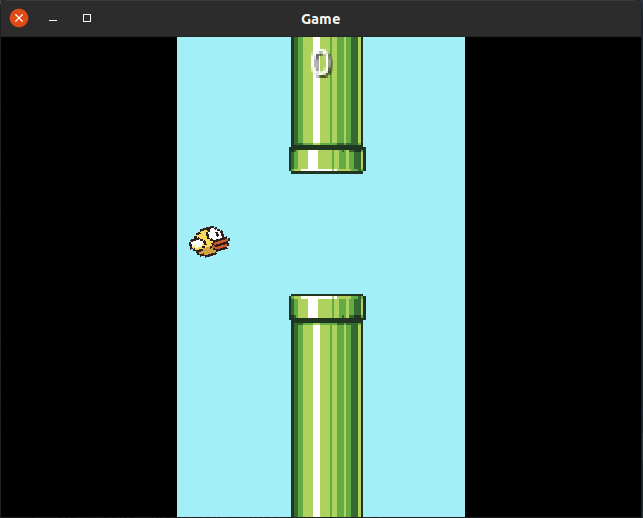
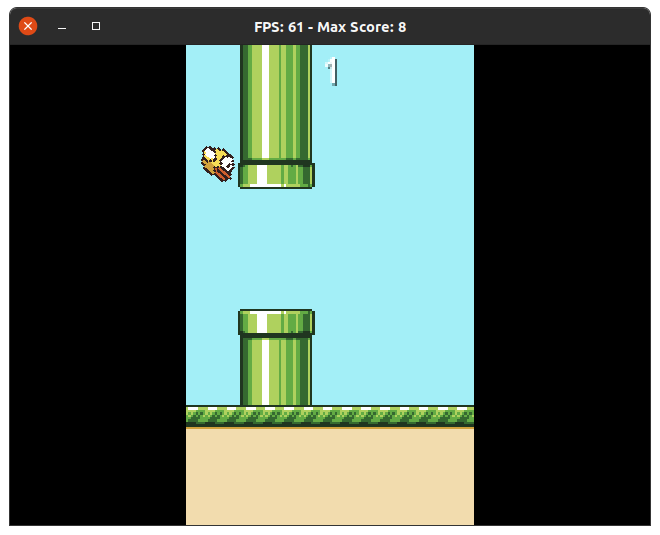
Added ground and general improvements

Changed region(s): [[0.0, 0.0, 1.0, 1.0]]

diff --git a/core/src/com/mygdx/game/systems/BirdSystem.kt b/core/src/com/mygdx/game/systems/BirdSystem.kt
@@ -27,9 +27,7 @@ class BirdSystem(gameScreen: GameScreen) : IteratingSystem(allOf(BirdComponent::
             val birdDrawable = drawableMap[birdEntity]!!
 
             // Process velocity and position
-            val velocity = bird.velocity
-            velocity.y -= Constants.GRAVITY * deltaTime
-            birdTransform.pos.y += velocity.y
+            processPhysics(bird, birdTransform, deltaTime)
 
             // Process rotation
             processRotation(bird, birdTransform)
@@ -45,7 +43,19 @@ class BirdSystem(gameScreen: GameScreen) : IteratingSystem(allOf(BirdComponent::
         }
     }
 
+    private fun processPhysics(bird: BirdComponent, birdTransform: TransformComponent, deltaTime: Float) {
+        if (hasLanded(birdTransform)) {
+            return
+        }
+        val velocity = bird.velocity
+        velocity.y -= Constants.GRAVITY * deltaTime
+        birdTransform.pos.y += velocity.y
+    }
+
     private fun processRotation(bird: BirdComponent, birdTransform: TransformComponent) {
+        if (hasLanded(birdTransform)) {
+            return
+        }
         val velocity = bird.velocity
         val oldRot = bird.oldRot
         if (!oldRot.isNaN()) {
@@ -58,7 +68,7 @@ class BirdSystem(gameScreen: GameScreen) : IteratingSystem(allOf(BirdComponent::
     private fun checkForDeath(birdTransform: TransformComponent, birdDrawable: DrawableComponent) {
         var inGap = false
 
-        if (birdTransform.pos.y + birdTransform.size.y < 0) {
+        if (hasLanded(birdTransform)) {
             // 1. too low
             die()
         } else {
@@ -87,5 +97,9 @@ class BirdSystem(gameScreen: GameScreen) : IteratingSystem(allOf(BirdComponent::
 
     private fun die() {
         world.isDead = true
+    }
+
+    private fun hasLanded(birdTransform: TransformComponent): Boolean {
+        return birdTransform.pos.y + birdTransform.size.y / 3 <= Constants.GROUND_HEIGHT
     }
 }

diff --git a/core/src/com/mygdx/game/entities/Pipe.kt b/core/src/com/mygdx/game/entities/Pipe.kt
@@ -5,16 +5,16 @@ import com.badlogic.gdx.graphics.g2d.NinePatch
 import com.badlogic.gdx.math.MathUtils
 import com.mygdx.game.Assets
 import com.mygdx.game.Constants
-import com.mygdx.game.components.ScrollComponent
 import com.mygdx.game.components.DrawableComponent
 import com.mygdx.game.components.GapComponent
+import com.mygdx.game.components.ScrollComponent
 import com.mygdx.game.components.TransformComponent
 import ktx.ashley.entity
 import ktx.ashley.with
 
 object Pipe {
     private fun new(engine: PooledEngine, height: Float, isFlipped: Boolean) {
-        val textureRegion = Assets.pipeTexture
+        val textureRegion = Assets.Sprites.PIPE.texture
 
         engine.entity {
             with<ScrollComponent>()
@@ -25,7 +25,7 @@ object Pipe {
                 scale.set(1f, if (isFlipped) -1f else 1f)
             }
             with<DrawableComponent> {
-                set(NinePatch(textureRegion, 0, 0, Assets.Sprites.PIPE_EDGE_TOP, 0))
+                set(NinePatch(textureRegion, 0, 0, Constants.PIPE_EDGE_TOP, 0))
             }
         }
     }
@@ -33,7 +33,7 @@ object Pipe {
     fun newRandomPair(engine: PooledEngine) {
         val halvedGap = Constants.PIPE_GAP.toInt() / 2
         newPair(engine, MathUtils.random(
-                Constants.PIPE_SCREEN_MARGIN + halvedGap,
+                Constants.PIPE_SCREEN_MARGIN + Constants.GROUND_HEIGHT.toInt() + halvedGap,
                 Constants.WORLD_HEIGHT.toInt() - Constants.PIPE_SCREEN_MARGIN - halvedGap
         ).toFloat(), Constants.PIPE_GAP)
     }
@@ -52,7 +52,7 @@ object Pipe {
             with<DrawableComponent>()
             with<TransformComponent> {
                 pos.set(Constants.WORLD_WIDTH, bottomY, 0f)
-                size.set(Assets.pipeTexture.originalWidth.toFloat(), gap)
+                size.set(Assets.Sprites.PIPE.texture.originalWidth.toFloat(), gap)
             }
         }
     }

diff --git a/core/src/com/mygdx/game/entities/Ground.kt b/core/src/com/mygdx/game/entities/Ground.kt
@@ -1,0 +1,35 @@
+package com.mygdx.game.entities
+
+import com.badlogic.ashley.core.PooledEngine
+import com.badlogic.gdx.graphics.g2d.NinePatch
+import com.mygdx.game.Assets
+import com.mygdx.game.Constants
+import com.mygdx.game.components.DrawableComponent
+import com.mygdx.game.components.ScrollComponent
+import com.mygdx.game.components.TransformComponent
+import ktx.ashley.entity
+import ktx.ashley.with
+
+object Ground {
+    /**
+     * Create enough ground entities in the world
+     */
+    fun init(engine: PooledEngine) {
+        for (i in 0 until Constants.WORLD_GROUND_COUNT) {
+            engine.entity {
+                with<TransformComponent> {
+                    pos.set(i * Constants.GROUND_WIDTH, 0f, -2f)
+                    // +0.1f to make seamless
+                    size.set(Constants.GROUND_WIDTH + 0.1f, Constants.GROUND_HEIGHT)
+                }
+                with<ScrollComponent> {
+                    willCycle = true
+                    cycleWidth = Constants.GROUND_CYCLE_WIDTH
+                }
+                with<DrawableComponent> {
+                    set(NinePatch(Assets.Sprites.GROUND.texture, Constants.GROUND_WIDTH.toInt() - 1, 0, Constants.GROUND_EDGE_TOP, 0))
+                }
+            }
+        }
+    }
+}

diff --git a/core/src/com/mygdx/game/systems/ScrollSystem.kt b/core/src/com/mygdx/game/systems/ScrollSystem.kt
@@ -11,17 +11,25 @@ import ktx.ashley.mapperFor
 
 class ScrollSystem(gameScreen: GameScreen) : IteratingSystem(allOf(ScrollComponent::class, TransformComponent::class).get()) {
     private val transformMap = mapperFor<TransformComponent>()
+    private val scrollMap = mapperFor<ScrollComponent>()
     private val world by lazy { gameScreen.world }
 
     override fun processEntity(entity: Entity?, deltaTime: Float) {
         // Move pipes leftwards
         if (entity != null && !world.isDead) {
             val transform = transformMap[entity]!!
+            val scroll = scrollMap[entity]!!
             transform.pos.x -= deltaTime * Constants.PIPE_MOVE_SPEED
 
             if (transform.box.x + transform.box.width < 0f) {
-                // off screen, remove entity
-                engine.removeEntity(entity)
+                // off screen
+                if (scroll.willCycle) {
+                    // recycle entity
+                    transform.pos.x += scroll.cycleWidth
+                } else {
+                    // remove entity
+                    engine.removeEntity(entity)
+                }
             }
         }
     }

diff --git a/core/src/com/mygdx/game/entities/Bird.kt b/core/src/com/mygdx/game/entities/Bird.kt
@@ -6,18 +6,17 @@ import com.mygdx.game.Constants
 import com.mygdx.game.components.BirdComponent
 import com.mygdx.game.components.DrawableComponent
 import com.mygdx.game.components.TransformComponent
-import com.mygdx.game.utils.Drawable
 import ktx.ashley.entity
 import ktx.ashley.with
 
 object Bird {
     fun new(engine: PooledEngine) {
-        val textureRegion = Assets.birdTexture
+        val textureRegion = Assets.Sprites.BIRD.texture
 
         engine.entity {
             with<BirdComponent>()
             with<TransformComponent> {
-                pos.set(Constants.BIRD_X, (Constants.WORLD_HEIGHT - textureRegion.originalHeight) / 2, -2f)
+                pos.set(Constants.BIRD_X, (Constants.WORLD_HEIGHT - textureRegion.originalHeight) / 2, -3f)
                 size.set(textureRegion.originalWidth.toFloat(), textureRegion.originalHeight.toFloat())
                 origin.set(textureRegion.originalWidth.toFloat() / 2, textureRegion.originalHeight.toFloat() / 2)
             }

diff --git a/core/src/com/mygdx/game/Constants.kt b/core/src/com/mygdx/game/Constants.kt
@@ -4,13 +4,25 @@ object Constants {
     const val WORLD_WIDTH = 120f
     const val WORLD_HEIGHT = 200f
 
-    const val PIPE_GAP = 50f
-    const val PIPE_SCREEN_MARGIN = 25
-    const val PIPE_SPAWN_INTERVAL = 2f
-    const val PIPE_MOVE_SPEED = 50f
-
+    // Physics
     const val GRAVITY = 9.81f
     const val BIRD_INITIAL_VELOCITY_Y = 2f
     const val BIRD_FLAP_VELOCITY_Y = 3.25f
     const val BIRD_X = 5f
+
+    // Texture Regions
+    const val PIPE_EDGE_TOP = 14
+    const val GROUND_EDGE_TOP = 10
+    const val GROUND_WIDTH = 8f
+
+    // Ground
+    const val GROUND_HEIGHT = WORLD_HEIGHT / 4
+    const val WORLD_GROUND_COUNT = WORLD_WIDTH.toInt() / GROUND_WIDTH.toInt() + 2
+    const val GROUND_CYCLE_WIDTH = WORLD_GROUND_COUNT * GROUND_WIDTH
+
+    // Layouts
+    const val PIPE_GAP = 50f
+    const val PIPE_SCREEN_MARGIN = 25
+    const val PIPE_SPAWN_INTERVAL = 2f
+    const val PIPE_MOVE_SPEED = 50f
 }

diff --git a/core/src/com/mygdx/game/Assets.kt b/core/src/com/mygdx/game/Assets.kt
@@ -7,13 +7,13 @@ import ktx.assets.load
 
 object Assets {
     val assetManager by lazy { AssetManager() }
-    val ATLAS_NAME = "images/altas.pack.atlas"
-    val atlas by assetManager.load<TextureAtlas>(ATLAS_NAME)
-    object Sprites {
-        val BIRD = "bird"
-        val PIPE = "pipe"
-        val PIPE_EDGE_TOP = 14
+    private val atlas by assetManager.load<TextureAtlas>("images/atlas.pack.atlas")
+
+    enum class Sprites(textureName: String) {
+        BIRD("bird"),
+        PIPE("pipe"),
+        GROUND("ground");
+
+        val texture: TextureAtlas.AtlasRegion by lazy { atlas.findRegion(textureName) }
     }
-    val pipeTexture by lazy { atlas.findRegion(Sprites.PIPE) }
-    val birdTexture by lazy { atlas.findRegion(Sprites.BIRD) }
 }

diff --git a/core/src/com/mygdx/game/World.kt b/core/src/com/mygdx/game/World.kt
@@ -5,6 +5,7 @@ import com.badlogic.gdx.Gdx
 import com.badlogic.gdx.Input
 import com.badlogic.gdx.graphics.glutils.ShapeRenderer
 import com.mygdx.game.entities.Bird
+import com.mygdx.game.entities.Ground
 import com.mygdx.game.systems.BirdSystem
 import ktx.ashley.getSystem
 import ktx.graphics.color
@@ -26,8 +27,12 @@ class World(val game: Game, private val engine: PooledEngine) {
         isDead = false
 
         Bird.new(engine)
+        Ground.init(engine)
     }
 
+    /**
+     * Run before engine update
+     */
     fun update(delta: Float) {
         if (!isDead) {
             if (Gdx.input.isKeyJustPressed(Input.Keys.SPACE) || Gdx.input.justTouched()) {

diff --git a/core/src/com/mygdx/game/systems/ScoreSystem.kt b/core/src/com/mygdx/game/systems/ScoreSystem.kt
@@ -19,7 +19,7 @@ class ScoreSystem(gameScreen: GameScreen): IteratingSystem(allOf(GapComponent::c
         if (entity != null) {
             val transform = transformMap[entity]!!
             val gap = gapMap[entity]!!
-            if (transform.pos.x + Assets.pipeTexture.originalWidth / 2 <= Constants.BIRD_X + Assets.birdTexture.originalWidth / 2) {
+            if (transform.pos.x + Assets.Sprites.PIPE.texture.originalWidth / 2 <= Constants.BIRD_X + Assets.Sprites.PIPE.texture.originalWidth / 2) {
                 // gain score
                 gap.tallyScore(world)
             }

diff --git a/core/src/com/mygdx/game/components/ScrollComponent.kt b/core/src/com/mygdx/game/components/ScrollComponent.kt
@@ -3,6 +3,12 @@ package com.mygdx.game.components
 import com.badlogic.ashley.core.Component
 import com.badlogic.gdx.utils.Pool
 
-class ScrollComponent: Component, Pool.Poolable {
-    override fun reset() = Unit
+data class ScrollComponent(
+        var willCycle: Boolean = false,
+        var cycleWidth: Float = 0f
+) : Component, Pool.Poolable {
+    override fun reset() {
+        willCycle = false
+        cycleWidth = 0f
+    }
 }
